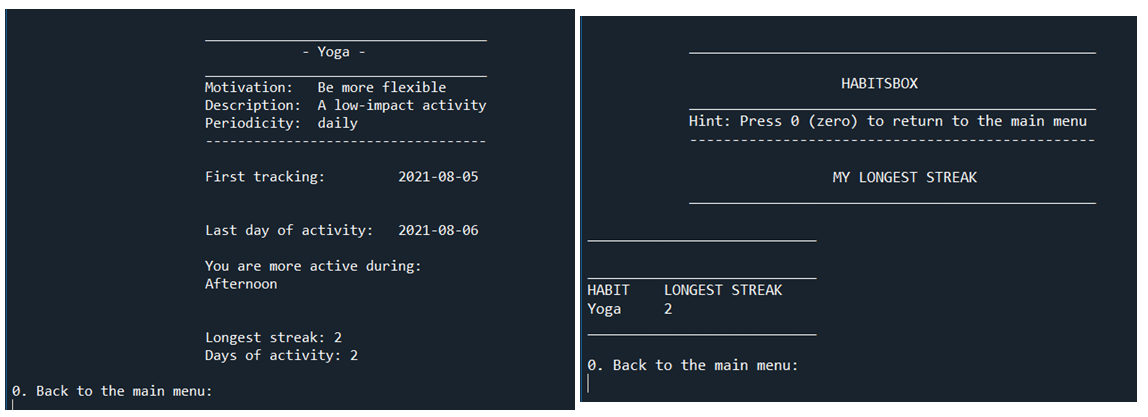
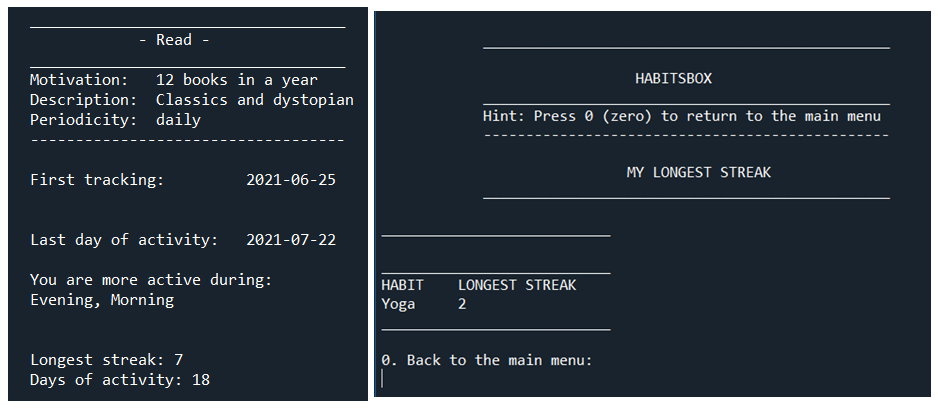
images

Changed region(s): [[0.0, 0.0, 1.0, 0.9903], [0.5874, 0.1165, 0.9584, 0.1456], [0.6493, 0.3786, 0.8657, 0.4369]]

diff --git a/Habitsbox_app/menu.py b/Habitsbox_app/menu.py
@@ -296,7 +296,7 @@ class Menu:
         print("""
                             CHECK A HABIT OFF
             ________________________________________________
-                            Time to improve!!
+                Check a habit off once you have done it
             ------------------------------------------------
             """)
 
@@ -308,7 +308,8 @@ class Menu:
         while True:
             print(
                 """
-                 Which habit do you want to check-off?"""
+                Which habit do you want to check-off?
+                """
                 )
             # display a table with all the registered habits
             self.analytics.table_registered_habits()
@@ -506,7 +507,7 @@ class Menu:
                         # The date of the last tracking
                         self.analytics.last_day(one_habit_trackings_info),
                         # Parts of the day separated by commas
-                        self.analytics.display_elements(most_active_time)
+                        self.analytics.display_elements(most_active_time, ', ')
                         )
                             )
                             if periodicity == 'daily':

diff --git a/README.md b/README.md
@@ -17,9 +17,9 @@ The Habitsbox Application allows users to create and track their daily and weekl
 ![Analytics](./Habitsbox_app/images/screenshoot2.png)
 ![Analytics](./Habitsbox_app/images/screenshoot3.png)
 
-
-
 ## Features
+
+
 
 ## Prerequisites
 * Python version 3.7  
